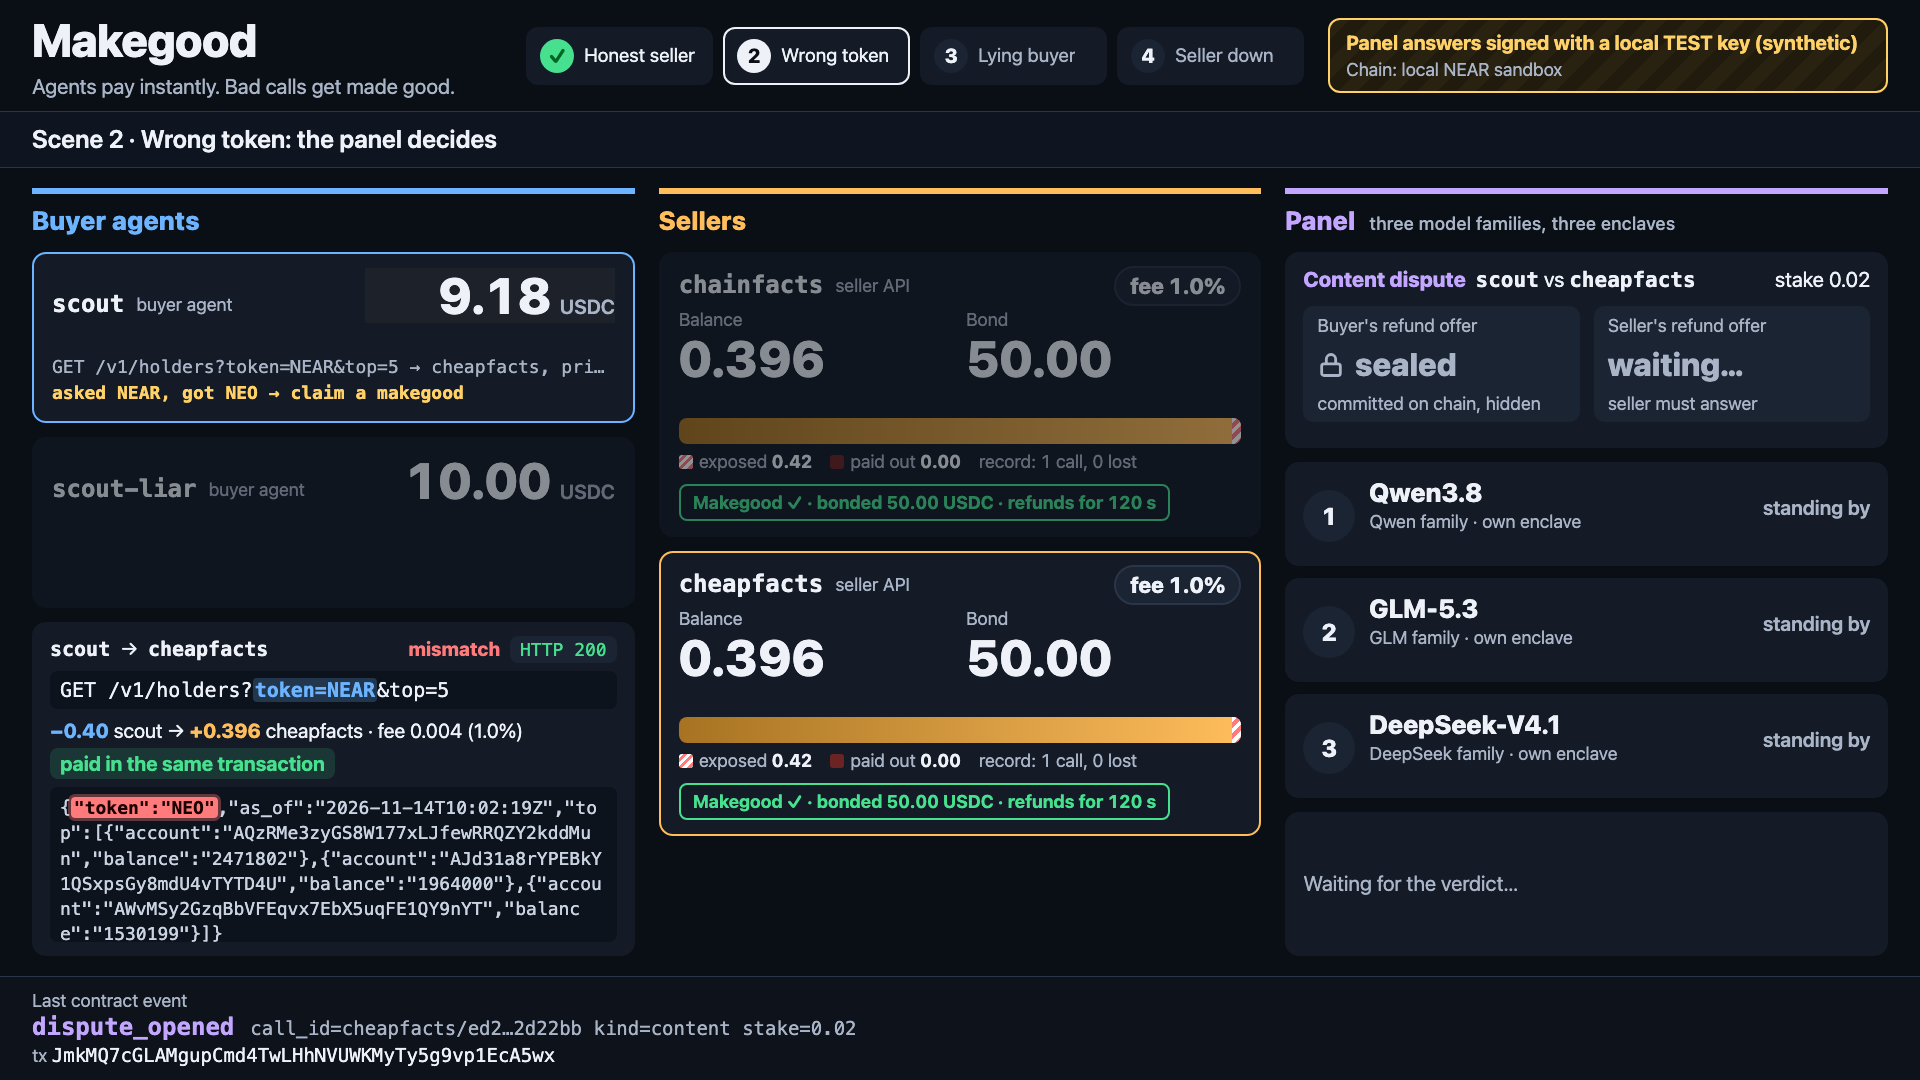
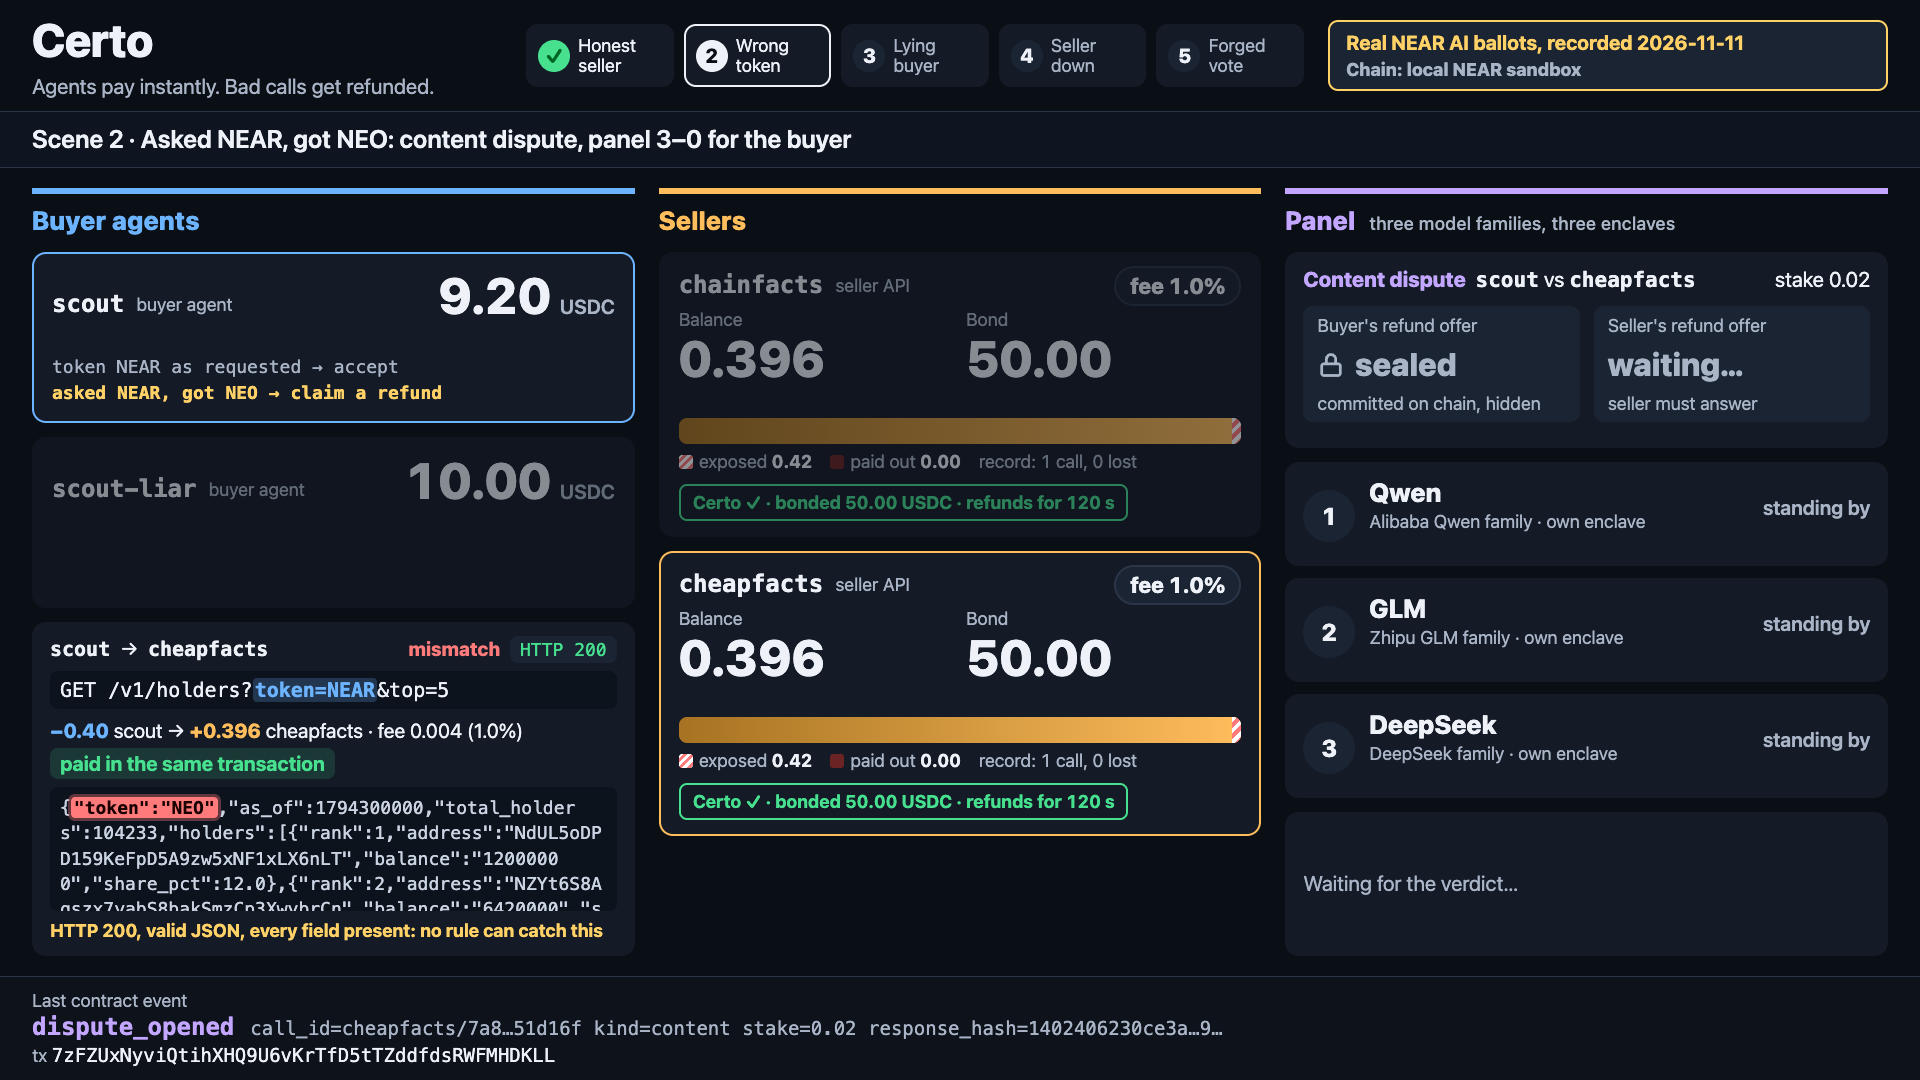
Demo page: one-line mode label; screenshots retaken from the runner
Screenshots in apps/demo/web/screenshots/ are now from `make demo` with
the real NEAR AI recordings (feed.json played by the page at 1920x1080),
not from the mock feed; scene5-end.png is new.

diff --git a/apps/demo/web/app.js b/apps/demo/web/app.js
@@ -344,10 +344,10 @@ function renderHeader() {
   box.className = "mode";
   if (m) {
     let label;
-    if (m.panel === "live") { label = "Panel: live answers from NEAR AI Cloud enclaves"; box.classList.add("live"); }
+    if (m.panel === "live") { label = "Live NEAR AI panel, asked now"; box.classList.add("live"); }
     else if (m.panel === "replay") {
       const when = m.recordedAt ? new Date(isNaN(Number(m.recordedAt)) ? m.recordedAt : Number(m.recordedAt)).toISOString().slice(0, 10) : "earlier";
-      label = `Panel answers recorded ${when}, signatures verified live`;
+      label = `Real NEAR AI ballots, recorded ${when}`;
       box.classList.add("replay");
     } else if (m.panel === "replay-synthetic") { label = "Panel answers signed with a local TEST key (synthetic)"; box.classList.add("synthetic"); }
     else label = `Panel: ${m.panel}`;
